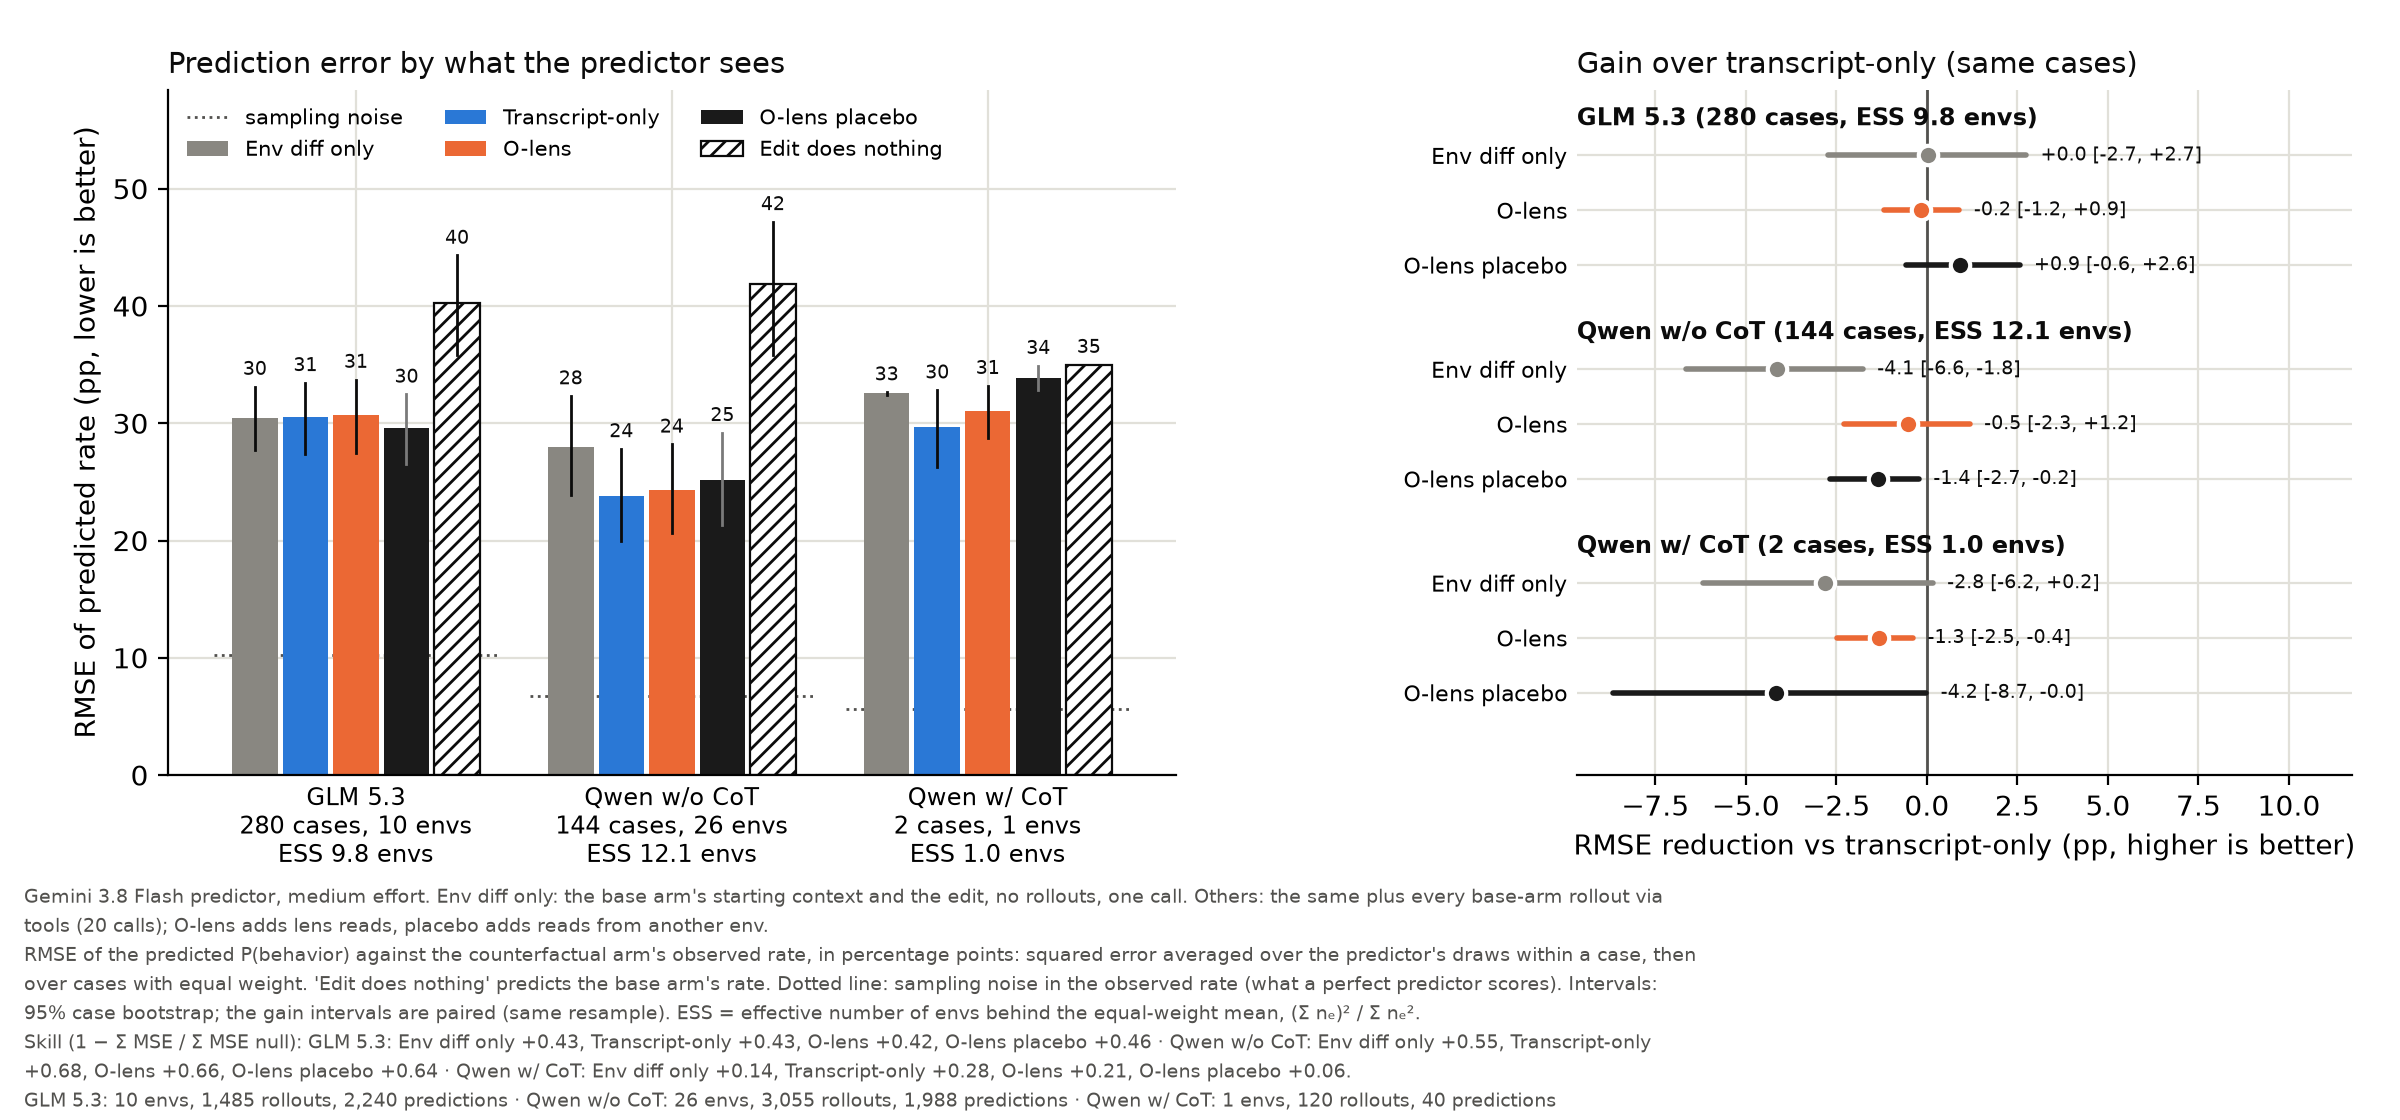
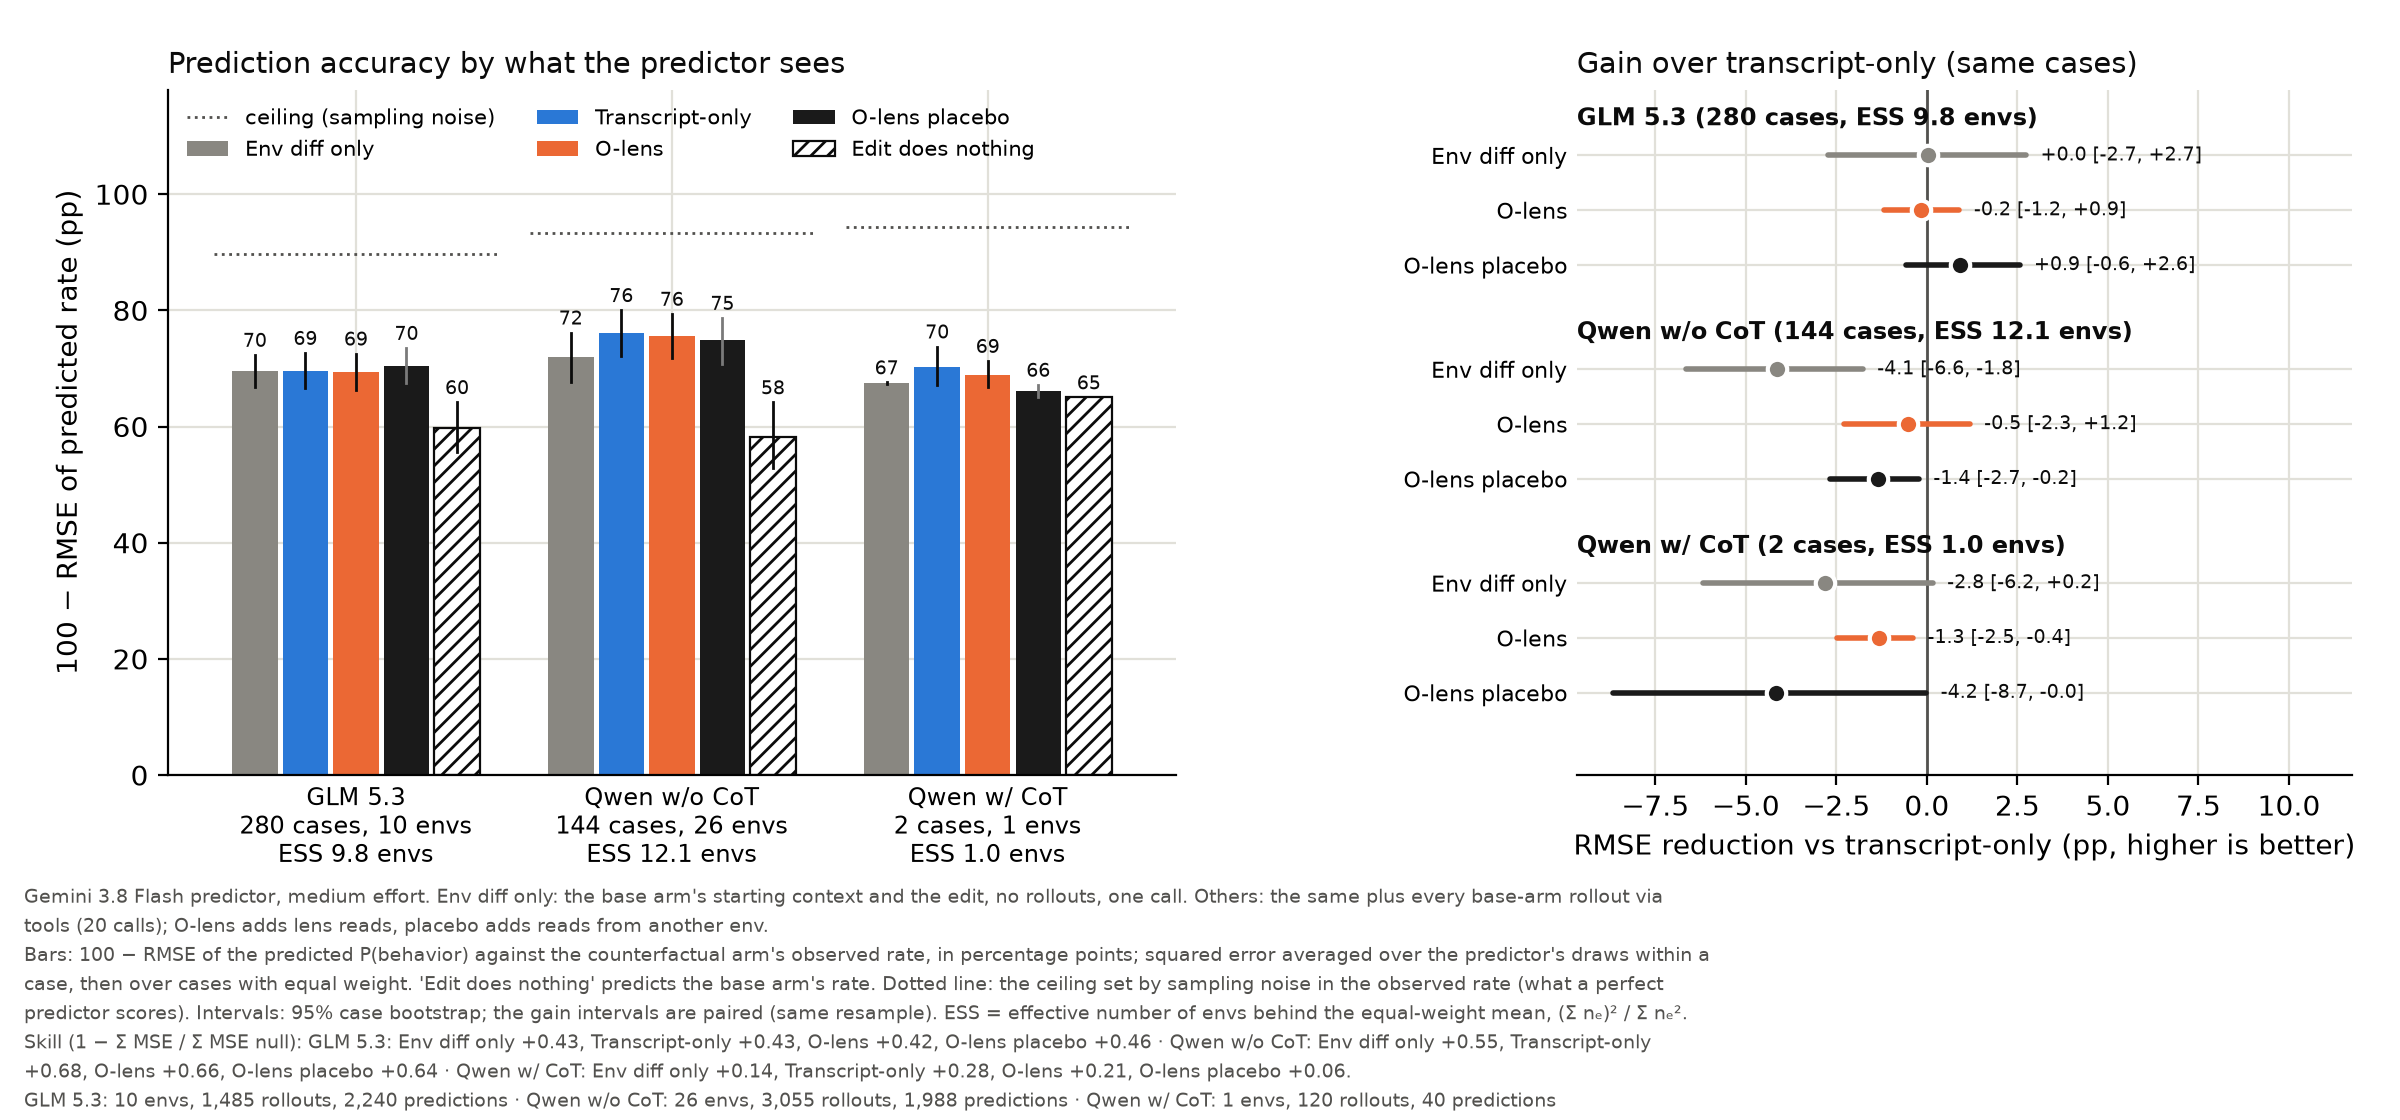
chart bars show 100 − RMSE so higher is better

diff --git a/cfbench/report/charts.py b/cfbench/report/charts.py
@@ -50,10 +50,11 @@ plt.rcParams.update(
 )
 
 METRIC_NOTE = (
-    "RMSE of the predicted P(behavior) against the counterfactual arm's observed rate, in percentage points: squared error averaged over "
-    "the predictor's draws within a case, then over cases with equal weight. 'Edit does nothing' predicts the base arm's rate. "
-    "Dotted line: sampling noise in the observed rate (what a perfect predictor scores). Intervals: 95% case bootstrap; the gain "
-    "intervals are paired (same resample). ESS = effective number of envs behind the equal-weight mean, (Σ nₑ)² / Σ nₑ²."
+    "Bars: 100 − RMSE of the predicted P(behavior) against the counterfactual arm's observed rate, in percentage points; squared error "
+    "averaged over the predictor's draws within a case, then over cases with equal weight. 'Edit does nothing' predicts the base arm's "
+    "rate. Dotted line: the ceiling set by sampling noise in the observed rate (what a perfect predictor scores). Intervals: 95% case "
+    "bootstrap; the gain intervals are paired (same resample). ESS = effective number of envs behind the equal-weight mean, "
+    "(Σ nₑ)² / Σ nₑ²."
 )
 SETUP_NOTE = (
     "Gemini 3.8 Flash predictor, medium effort. Env diff only: the base arm's starting context and the edit, no rollouts, one call. "
@@ -96,6 +97,11 @@ def stats(cases: dict[tuple, Case], keys=None) -> dict:
     }
 
 
+def acc(rmse_value: float) -> float:
+    """What the bars show: 100 − RMSE in percentage points, so higher is better."""
+    return 100 - rmse_value * 100
+
+
 def bar_group(ax, x0: float, s: dict, width: float, label: bool):
     """One target's bars: the four conditions plus the null, with bootstrap intervals and values; returns the x of the last bar."""
     series = [(c, LABEL[c], COLOR[c], s["rmse"][c], s["rmse_ci"][c]) for c in CONDS] + [
@@ -104,9 +110,9 @@ def bar_group(ax, x0: float, s: dict, width: float, label: bool):
     for j, (c, lab, color, v, ci) in enumerate(series):
         x = x0 + (j - (len(series) - 1) / 2) * width
         kw = {"color": NULL_FILL, "edgecolor": INK, "hatch": "////", "lw": 0.8} if c == "null" else {"color": color}
-        ax.bar(x, v * 100, width * 0.9, label=lab if label else None, zorder=2, **kw)
-        ax.plot([x, x], [ci[0] * 100, ci[1] * 100], color=INK if c != "olens_placebo" else "#7a7a7a", lw=1, zorder=3)
-        ax.text(x, ci[1] * 100 + 0.6, f"{v * 100:.0f}", ha="center", va="bottom", fontsize=7, color=INK)
+        ax.bar(x, acc(v), width * 0.9, label=lab if label else None, zorder=2, **kw)
+        ax.plot([x, x], [acc(ci[1]), acc(ci[0])], color=INK if c != "olens_placebo" else "#7a7a7a", lw=1, zorder=3)
+        ax.text(x, acc(ci[0]) + 0.6, f"{acc(v):.0f}", ha="center", va="bottom", fontsize=7, color=INK)
     return x0 + (len(series) - 1) / 2 * width
 
 
@@ -114,13 +120,13 @@ def chart_pooled(cases, cov, out):
     s = stats(cases)
     fig, ax = plt.subplots(figsize=(6.2, 4.6))
     bar_group(ax, 0, s, 0.16, label=True)
-    ax.axhline(s["noise_floor"] * 100, color=MUTED, ls=":", lw=1, zorder=1, label="sampling noise")
+    ax.axhline(acc(s["noise_floor"]), color=MUTED, ls=":", lw=1, zorder=1, label="ceiling (sampling noise)")
     ax.set_xlim(-0.5, 0.5)
     ax.set_xticks([])
-    ax.set_ylabel("RMSE of predicted rate (pp, lower is better)")
-    ax.set_ylim(0, ax.get_ylim()[1] * 1.15)
+    ax.set_ylabel("100 − RMSE of predicted rate (pp)")
+    ax.set_ylim(0, 118)
     ax.legend(frameon=False, fontsize=7.5, loc="upper left", ncol=3)
-    ax.set_title("Prediction error by what the predictor sees, all targets", loc="left", fontsize=10.5, color=INK)
+    ax.set_title("Prediction accuracy by what the predictor sees, all targets", loc="left", fontsize=10.5, color=INK)
     skill_txt = "  ".join(f"{LABEL[c]} {s['brier_skill'][c]:+.2f}" for c in CONDS)
     pad = notes(
         fig,
@@ -130,7 +136,7 @@ def chart_pooled(cases, cov, out):
         cov_line(cov, list(cases)),
         width=120,
     )
-    fig.subplots_adjust(left=0.1, right=0.98, top=0.92, bottom=0.08 + pad)
+    fig.subplots_adjust(left=0.12, right=0.98, top=0.92, bottom=0.08 + pad)
     fig.savefig(f"{out}/skill_pooled.png", dpi=200)
     plt.close(fig)
     return s
@@ -142,18 +148,18 @@ def chart_by_target(per_target: dict[str, dict], covs: dict[str, dict], out):
     w = 0.8 / 5
     for i, t in enumerate(targets):
         bar_group(ax, i, per_target[t], w, label=i == 0)
-        nf = per_target[t]["noise_floor"] * 100
-        ax.plot([i - 0.45, i + 0.45], [nf, nf], color=MUTED, ls=":", lw=1, zorder=1, label="sampling noise" if i == 0 else None)
+        nf = acc(per_target[t]["noise_floor"])
+        ax.plot([i - 0.45, i + 0.45], [nf, nf], color=MUTED, ls=":", lw=1, zorder=1, label="ceiling (sampling noise)" if i == 0 else None)
     ax.set_xticks(
         range(len(targets)),
         [f"{t}\n{per_target[t]['cases']} cases, {per_target[t]['envs']} envs\nESS {per_target[t]['ess_envs']:.1f} envs" for t in targets],
         fontsize=8.5,
     )
     ax.tick_params(axis="x", length=0)
-    ax.set_ylabel("RMSE of predicted rate (pp, lower is better)")
-    ax.set_ylim(0, ax.get_ylim()[1] * 1.18)  # room for the legend above the bars
+    ax.set_ylabel("100 − RMSE of predicted rate (pp)")
+    ax.set_ylim(0, 118)  # room for the legend above the bars
     ax.legend(frameon=False, fontsize=7.5, loc="upper left", ncol=3)
-    ax.set_title("Prediction error by what the predictor sees", loc="left", fontsize=10.5, color=INK)
+    ax.set_title("Prediction accuracy by what the predictor sees", loc="left", fontsize=10.5, color=INK)
 
     others = [c for c in CONDS if c != "agentic"]
     ys, labels, y = [], [], 0

diff --git a/docs/cfbench-scoring.md b/docs/cfbench-scoring.md
@@ -17,7 +17,8 @@ in Y. We ask it several times per case (draws, d = 1..D), each draw re-picking w
 - **Score of one draw**: squared error of the rate, (p̂_d − q)².
 - **Score of one case**: mean over draws, (1/D) Σ_d (p̂_d − q)².
 - **Score of a set of cases**: mean over cases with equal weight, reported as RMSE in percentage
-  points: 100 × √(mean_cases mean_draws (p̂_d − q)²).
+  points: 100 × √(mean_cases mean_draws (p̂_d − q)²). The charts plot **100 − RMSE** so that higher
+  is better; it is the same number, and still in pp.
 - **The null, "edit does nothing"**: p̂ = k_X/n_X, the rate the predictor was shown. Its RMSE is
   printed next to every predictor's.
 - **Skill** (secondary): 1 − Σ_cases MSE / Σ_cases MSE_null, pooled as a ratio of sums. 0 = the
